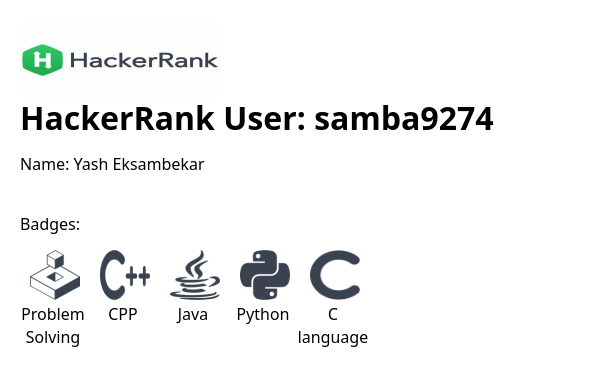
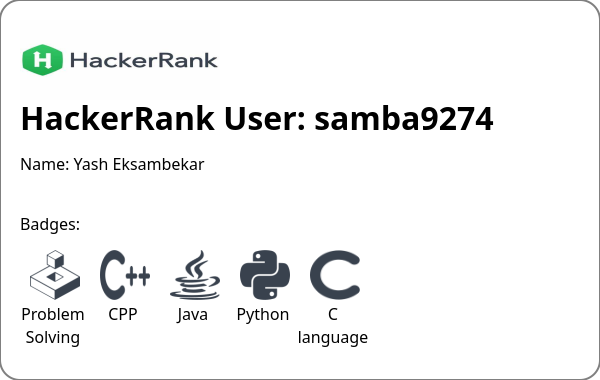
added border

Changed region(s): [[0.96, 0.0, 1.0, 0.9842], [0.0, 0.9553, 0.99, 1.0], [0.0, 0.0, 0.03, 0.0289]]

diff --git a/src/createdGithubCard.js b/src/createdGithubCard.js
@@ -41,6 +41,11 @@ async function createGithubCard(data, logoPath, outputFile) {
   ctx.closePath();
   ctx.fill();
 
+  // Add a 2px grey border
+  ctx.lineWidth = 2;
+  ctx.strokeStyle = "#808080"; // Grey color
+  ctx.stroke(); // Draw the border
+
   // Load and draw the HackerRank logo
   const logo = await loadLocalHackerRankLogo(logoPath);
   if (logo) {
